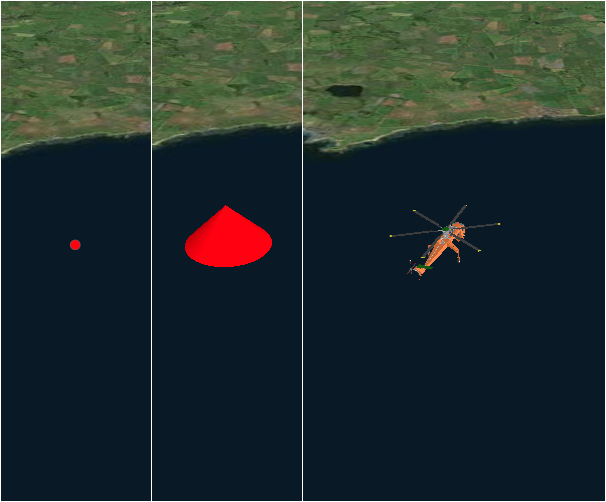
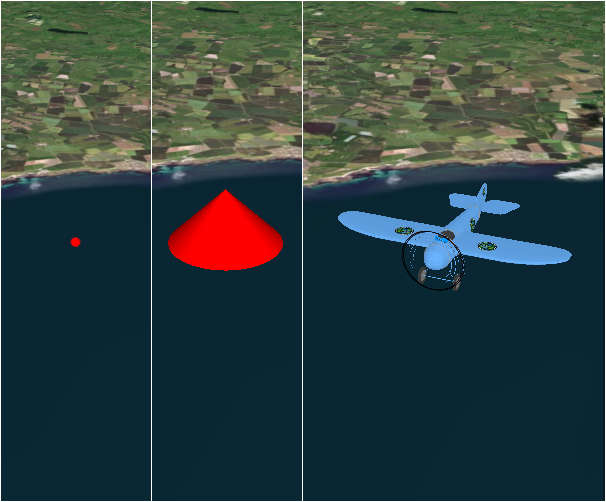
Change Skycrane lightwave file to Bristol collada file, as lightwave is no longer supported.

Changed region(s): [[0.0, 0.0, 1.0, 0.5976], [0.1188, 0.4781, 0.1485, 0.508]]

diff --git a/ArcGISRuntimeSDKQt_QMLSamples/Scenes/DistanceCompositeSymbol/DistanceCompositeSymbol.qml b/ArcGISRuntimeSDKQt_QMLSamples/Scenes/DistanceCompositeSymbol/DistanceCompositeSymbol.qml
@@ -88,8 +88,8 @@ Rectangle {
             //! [model scene symbol]
             ModelSceneSymbol {
                 id: mms
-                url: dataPath + "3D/SkyCrane/SkyCrane.lwo"
-                scale: 0.01
+                url: dataPath + "3D/Bristol/Collada/Bristol.dae"
+                scale: 5.0
                 heading: 180
             }
             //! [model scene symbol]

diff --git a/ArcGISRuntimeSDKQt_CppSamples/Scenes/DistanceCompositeSymbol/DistanceCompositeSymbol.cpp b/ArcGISRuntimeSDKQt_CppSamples/Scenes/DistanceCompositeSymbol/DistanceCompositeSymbol.cpp
@@ -72,7 +72,7 @@ void DistanceCompositeSymbol::componentComplete()
   QQuickItem::componentComplete();
 
   // get the data path
-  const QString dataPath = defaultDataPath() + "/ArcGIS/Runtime/Data/3D/SkyCrane/SkyCrane.lwo";
+  const QString dataPath = defaultDataPath() + "/ArcGIS/Runtime/Data/3D/Bristol/Collada/Bristol.dae";
 
   // find QML SceneView component
   m_sceneView = findChild<SceneQuickView*>("sceneView");
@@ -98,7 +98,7 @@ void DistanceCompositeSymbol::componentComplete()
   m_sceneView->graphicsOverlays()->append(graphicsOverlay);
 
   //! [create model scene symbol]
-  constexpr float scale = 0.01f;
+  constexpr float scale = 5.0f;
   ModelSceneSymbol* mms = new ModelSceneSymbol(QUrl(dataPath), scale, this);
   mms->setHeading(180);
   //! [create model scene symbol]

diff --git a/ArcGISRuntimeSDKQt_CppSamples/Scenes/DistanceCompositeSymbol/README.md b/ArcGISRuntimeSDKQt_CppSamples/Scenes/DistanceCompositeSymbol/README.md
@@ -34,4 +34,4 @@ Read more about how to set up the sample's offline data [here](http://links.esri
 
 Link | Local Location
 ---------|-------|
-|[Model Marker Symbol Data](https://www.arcgis.com/home/item.html?id=810a20c8be914170948d4c2d2146b4c5)| `<userhome>`/ArcGIS/Runtime/Data/3D/SkyCrane/SkyCrane.lwo |
+|[Model Marker Symbol Data](https://www.arcgis.com/home/item.html?id=681d6f7694644709a7c830ec57a2d72b)| `<userhome>`/ArcGIS/Runtime/Data/3D/Bristol/Collada/Bristol.dae |

diff --git a/ArcGISRuntimeSDKQt_QMLSamples/Scenes/DistanceCompositeSymbol/README.md b/ArcGISRuntimeSDKQt_QMLSamples/Scenes/DistanceCompositeSymbol/README.md
@@ -34,4 +34,4 @@ Read more about how to set up the sample's offline data [here](http://links.esri
 
 Link | Local Location
 ---------|-------|
-|[Model Marker Symbol Data](https://www.arcgis.com/home/item.html?id=810a20c8be914170948d4c2d2146b4c5)| `<userhome>`/ArcGIS/Runtime/Data/3D/SkyCrane/SkyCrane.lwo |
+|[Model Marker Symbol Data](https://www.arcgis.com/home/item.html?id=681d6f7694644709a7c830ec57a2d72b)| `<userhome>`/ArcGIS/Runtime/3D/Bristol/Collada/Bristol.dae |
